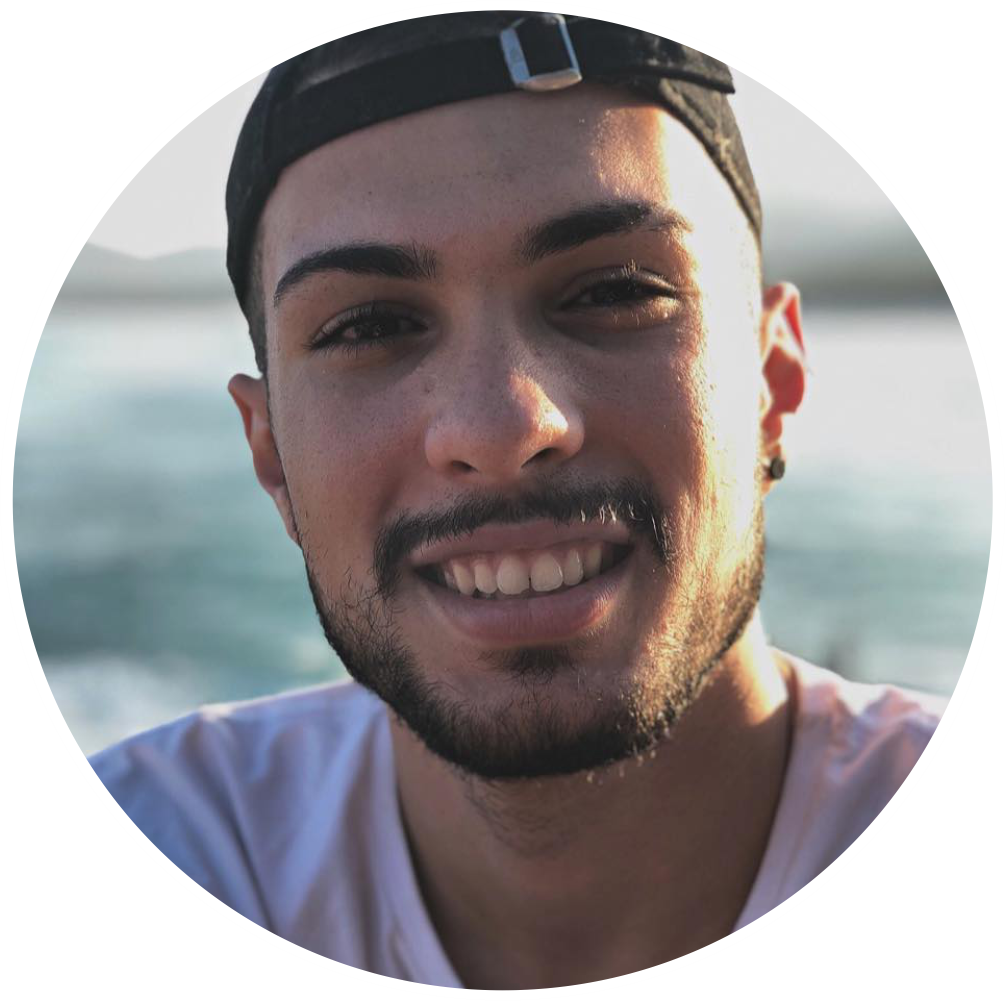
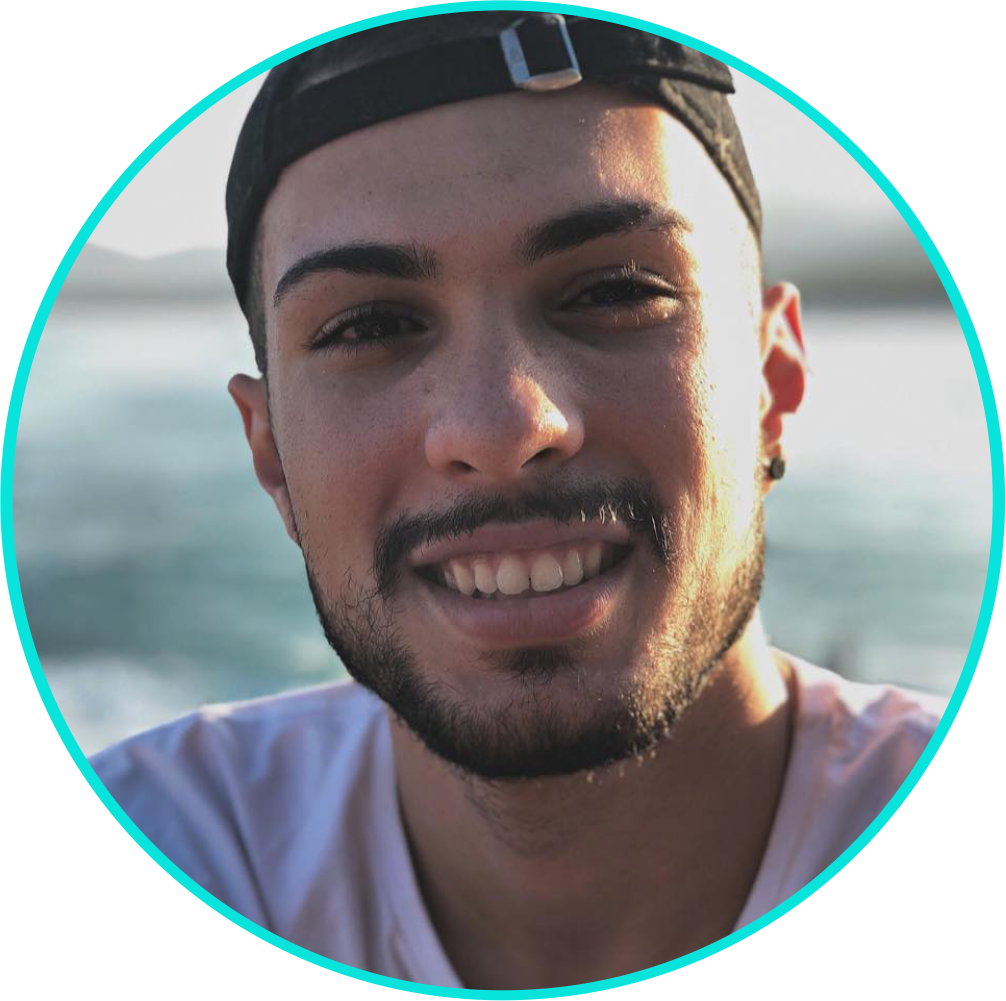
Adicionado Valor, ajuste fotos davi e Hemã

diff --git a/index.html b/index.html
@@ -74,7 +74,6 @@
             </div>
             <hr>
 
-            
             <div class="col-6 mb-3">
               <h3>Você teve um vídeo com mais de mil visualizações e não ganhou dinheiro por isso?</h3>
             </div>
@@ -365,15 +364,14 @@
                 </div>
               </div>
             </div>
-            <hr class="border-bluetiktok">
-
           </div>
         </div>
       </section>
+      <hr class="border-white">
       <!--FIM SECTION 5-->
 
       <!--SECTION 6-->
-      <section class="bg-dark pt-5">
+      <section class="bg-darktiktokv1 pt-5">
         <div class="container-fluid text-white text-center">
           
           <div class="row">
@@ -391,16 +389,17 @@
             <h6 class="col-12 mt-2">Carioca, 20 anos. Usava as redes sociais por lazer e via no mercado tradicional o único meio de ter seus objetivos alcançados. Após algumas experiências e falhas resolveu transformar seu TikTok em uma fonte de renda passiva e viu ganhos muito maiores que o mercado de carteira assinada lhe proporcionava. Investiu mais do seu tempo e hoje é rico, milionário, tem iates limpa o cachorro com notas de 50! </h6>
             
             <div class="col-4 mt-5">
-              <img class="img-fluid" src="imagens/ft-david.png">
+              <img class="img-fluid" src="imagens/ft-davi.png">
             </div>
             <div class="col-6 mt-6">
-              <img class="img-fluid" src="imagens/david-bragatto-mentor.png" alt="">
+              <img class="img-fluid" src="imagens/davi-bragatto-mentor.png" alt="">
               <p>Mentor Master</p>
             </div>
             <h6 class="col-12 mt-2">Carioca, 19 anos. Assim como seu irmão decidiu apostar no TikTok e hoje é dono das maiores fazendas de Mato Grosso do Sul, tendo 20 mil empregados e sua tão sonhada liberdade financeira.</h6>
           </div>
         </div>
-      </section>
+      </section>      
+      <hr class="border-white">
       <!--FIM SECTION 6-->
 
       <!--SECTION 7-->
@@ -408,7 +407,7 @@
         <div class="container-fluid text-white">
           <div class="row">
             <div class="col-12 mt-5">
-              <img class="img-fluid" src="imagens/valores-1.png" alt="">
+              <img class="img-fluid animate__animated animate__pulse animate__infinite" src="imagens/valores-1.png" alt="">
             </div>
             <div class="col-12 mt-5 mb-5 d-flex justify-content-center">
               <button class="botao-comprar-blue pulse-button animate__animated animate__pulse animate__infinite	infinite  d-flex justify-content-center"><h2>Adiquira Agora!</h2></button>

diff --git a/style.css b/style.css
@@ -101,6 +101,19 @@ body{
   opacity: 0.7;
 }
 
+.border-white{
+  border: 5px solid rgb(255, 255, 255);
+  opacity: 0.9;
+}
+
 .text-gray{
   color: rgb(68, 68, 68);
+}
+
+.bg-darktiktokv1{
+  background-color: #1f2224;
+}
+
+.bg-darktiktokv2{
+  background-color: #1e2124;
 }
